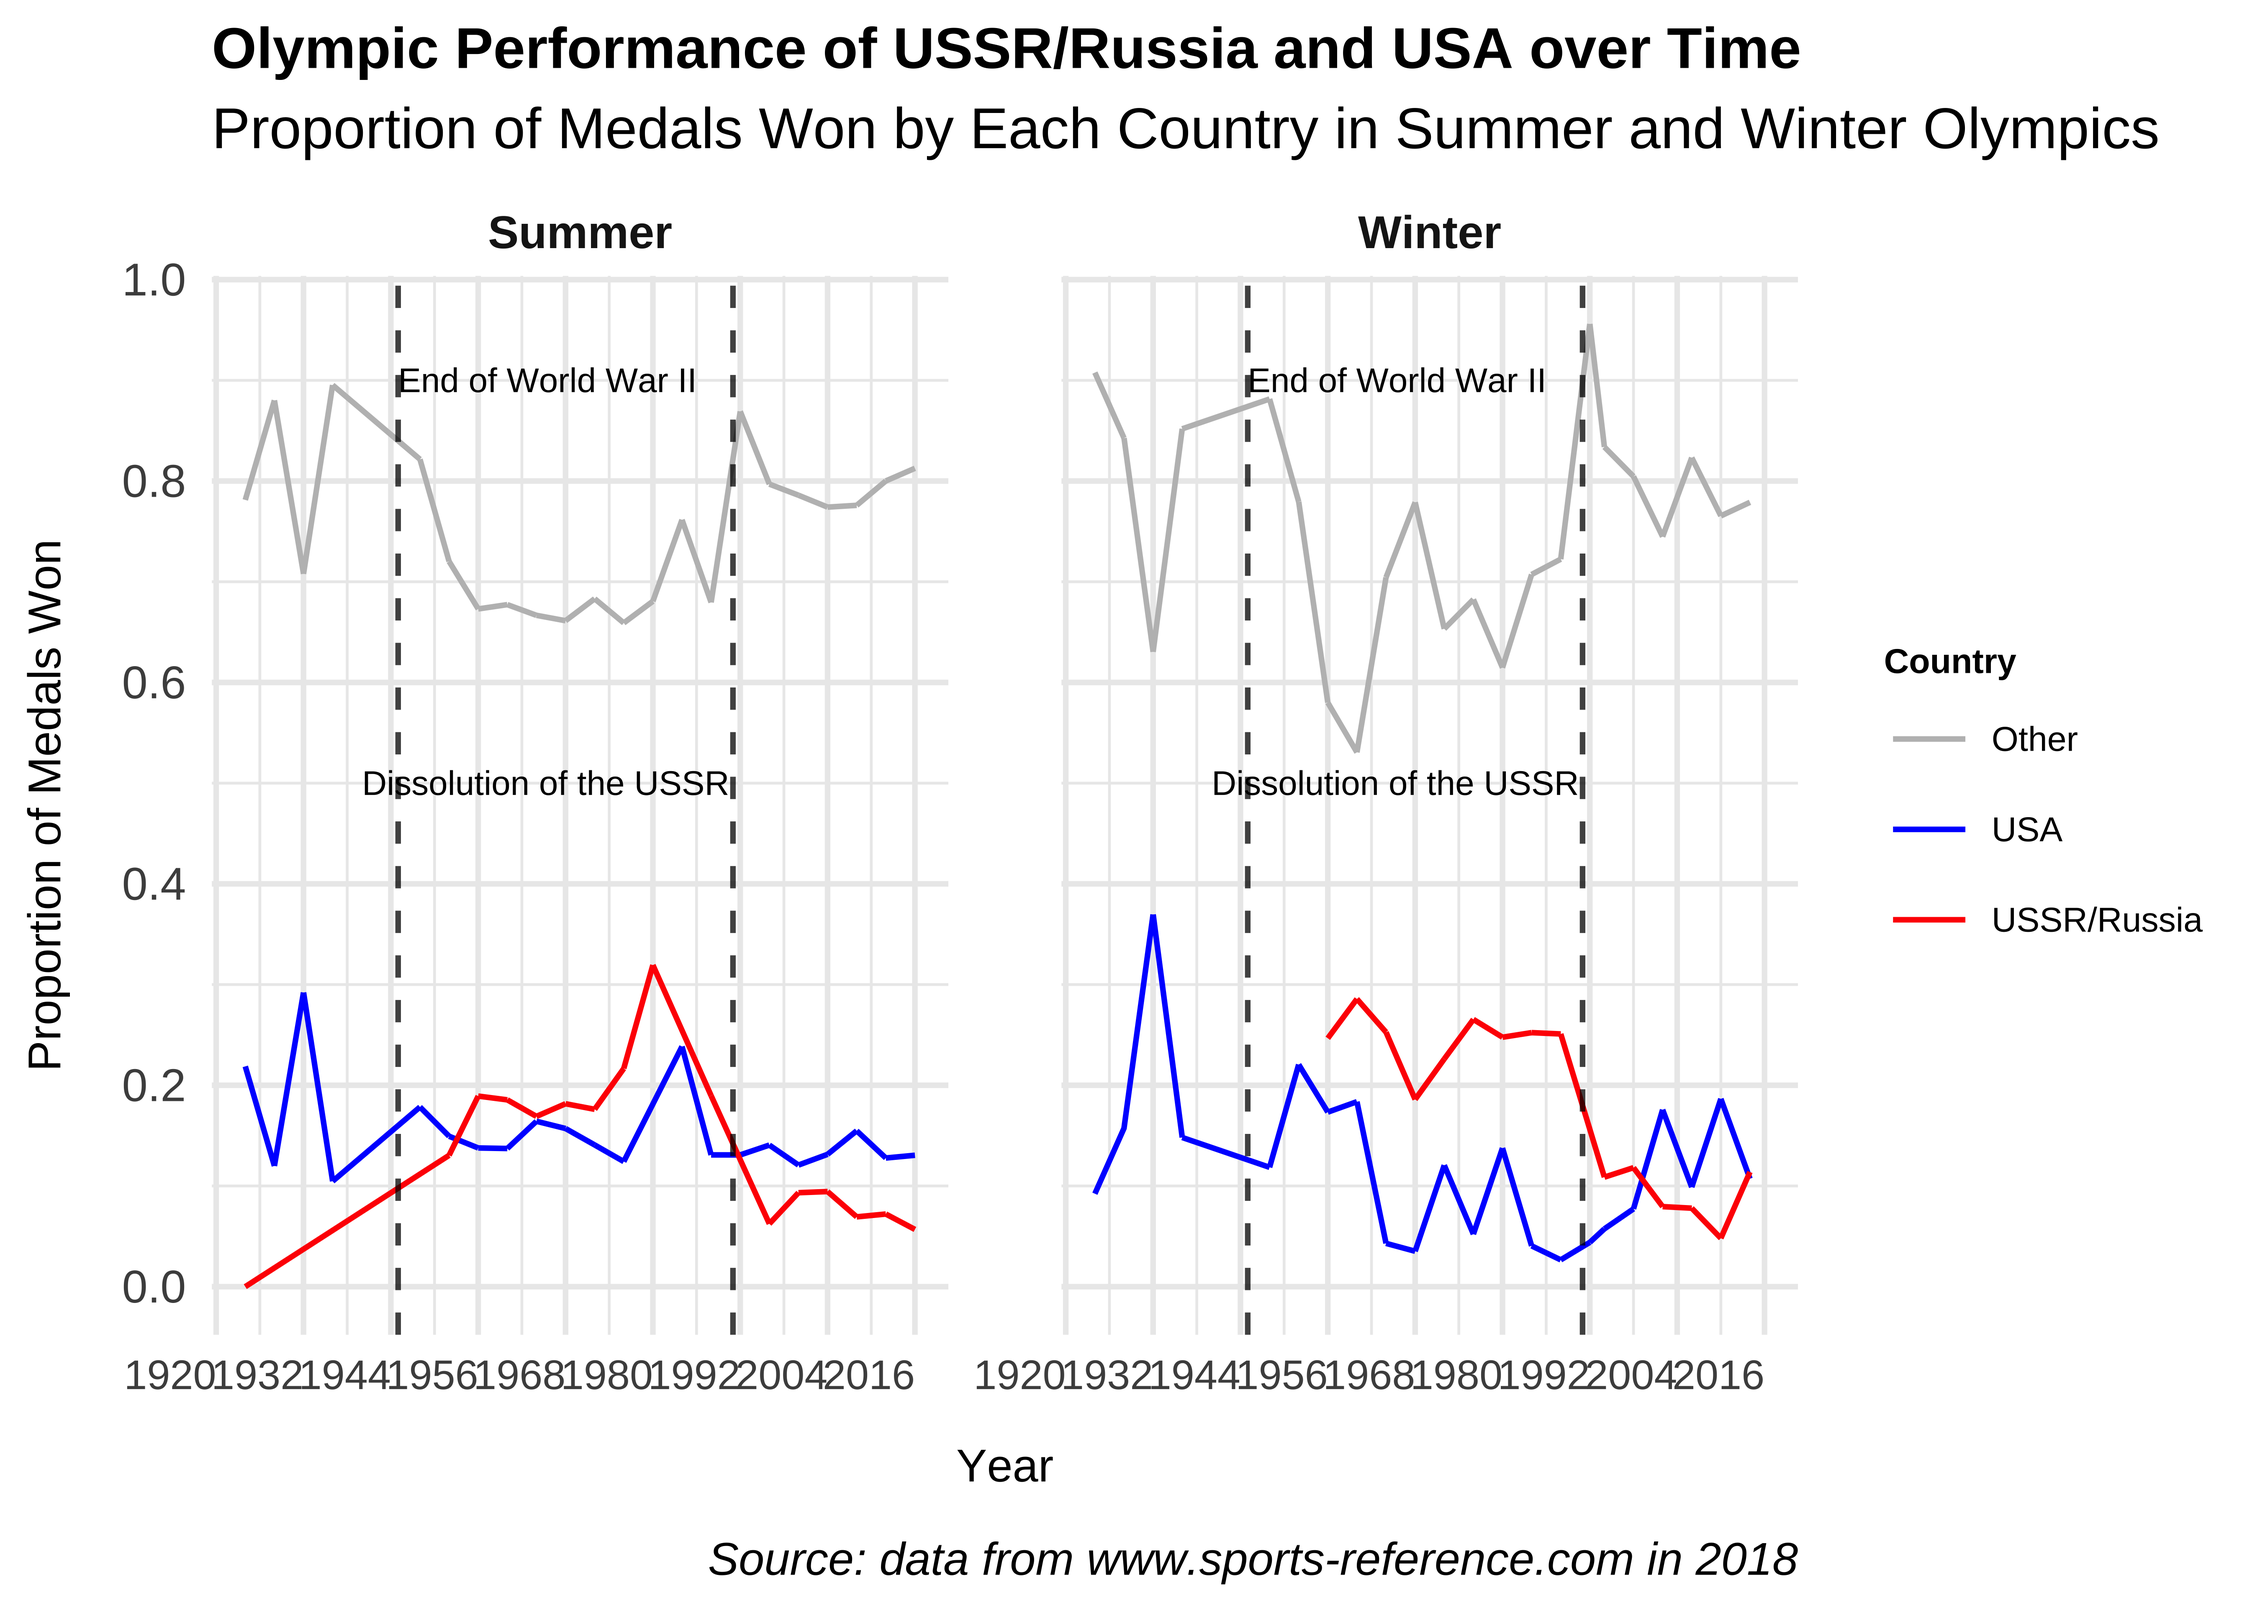
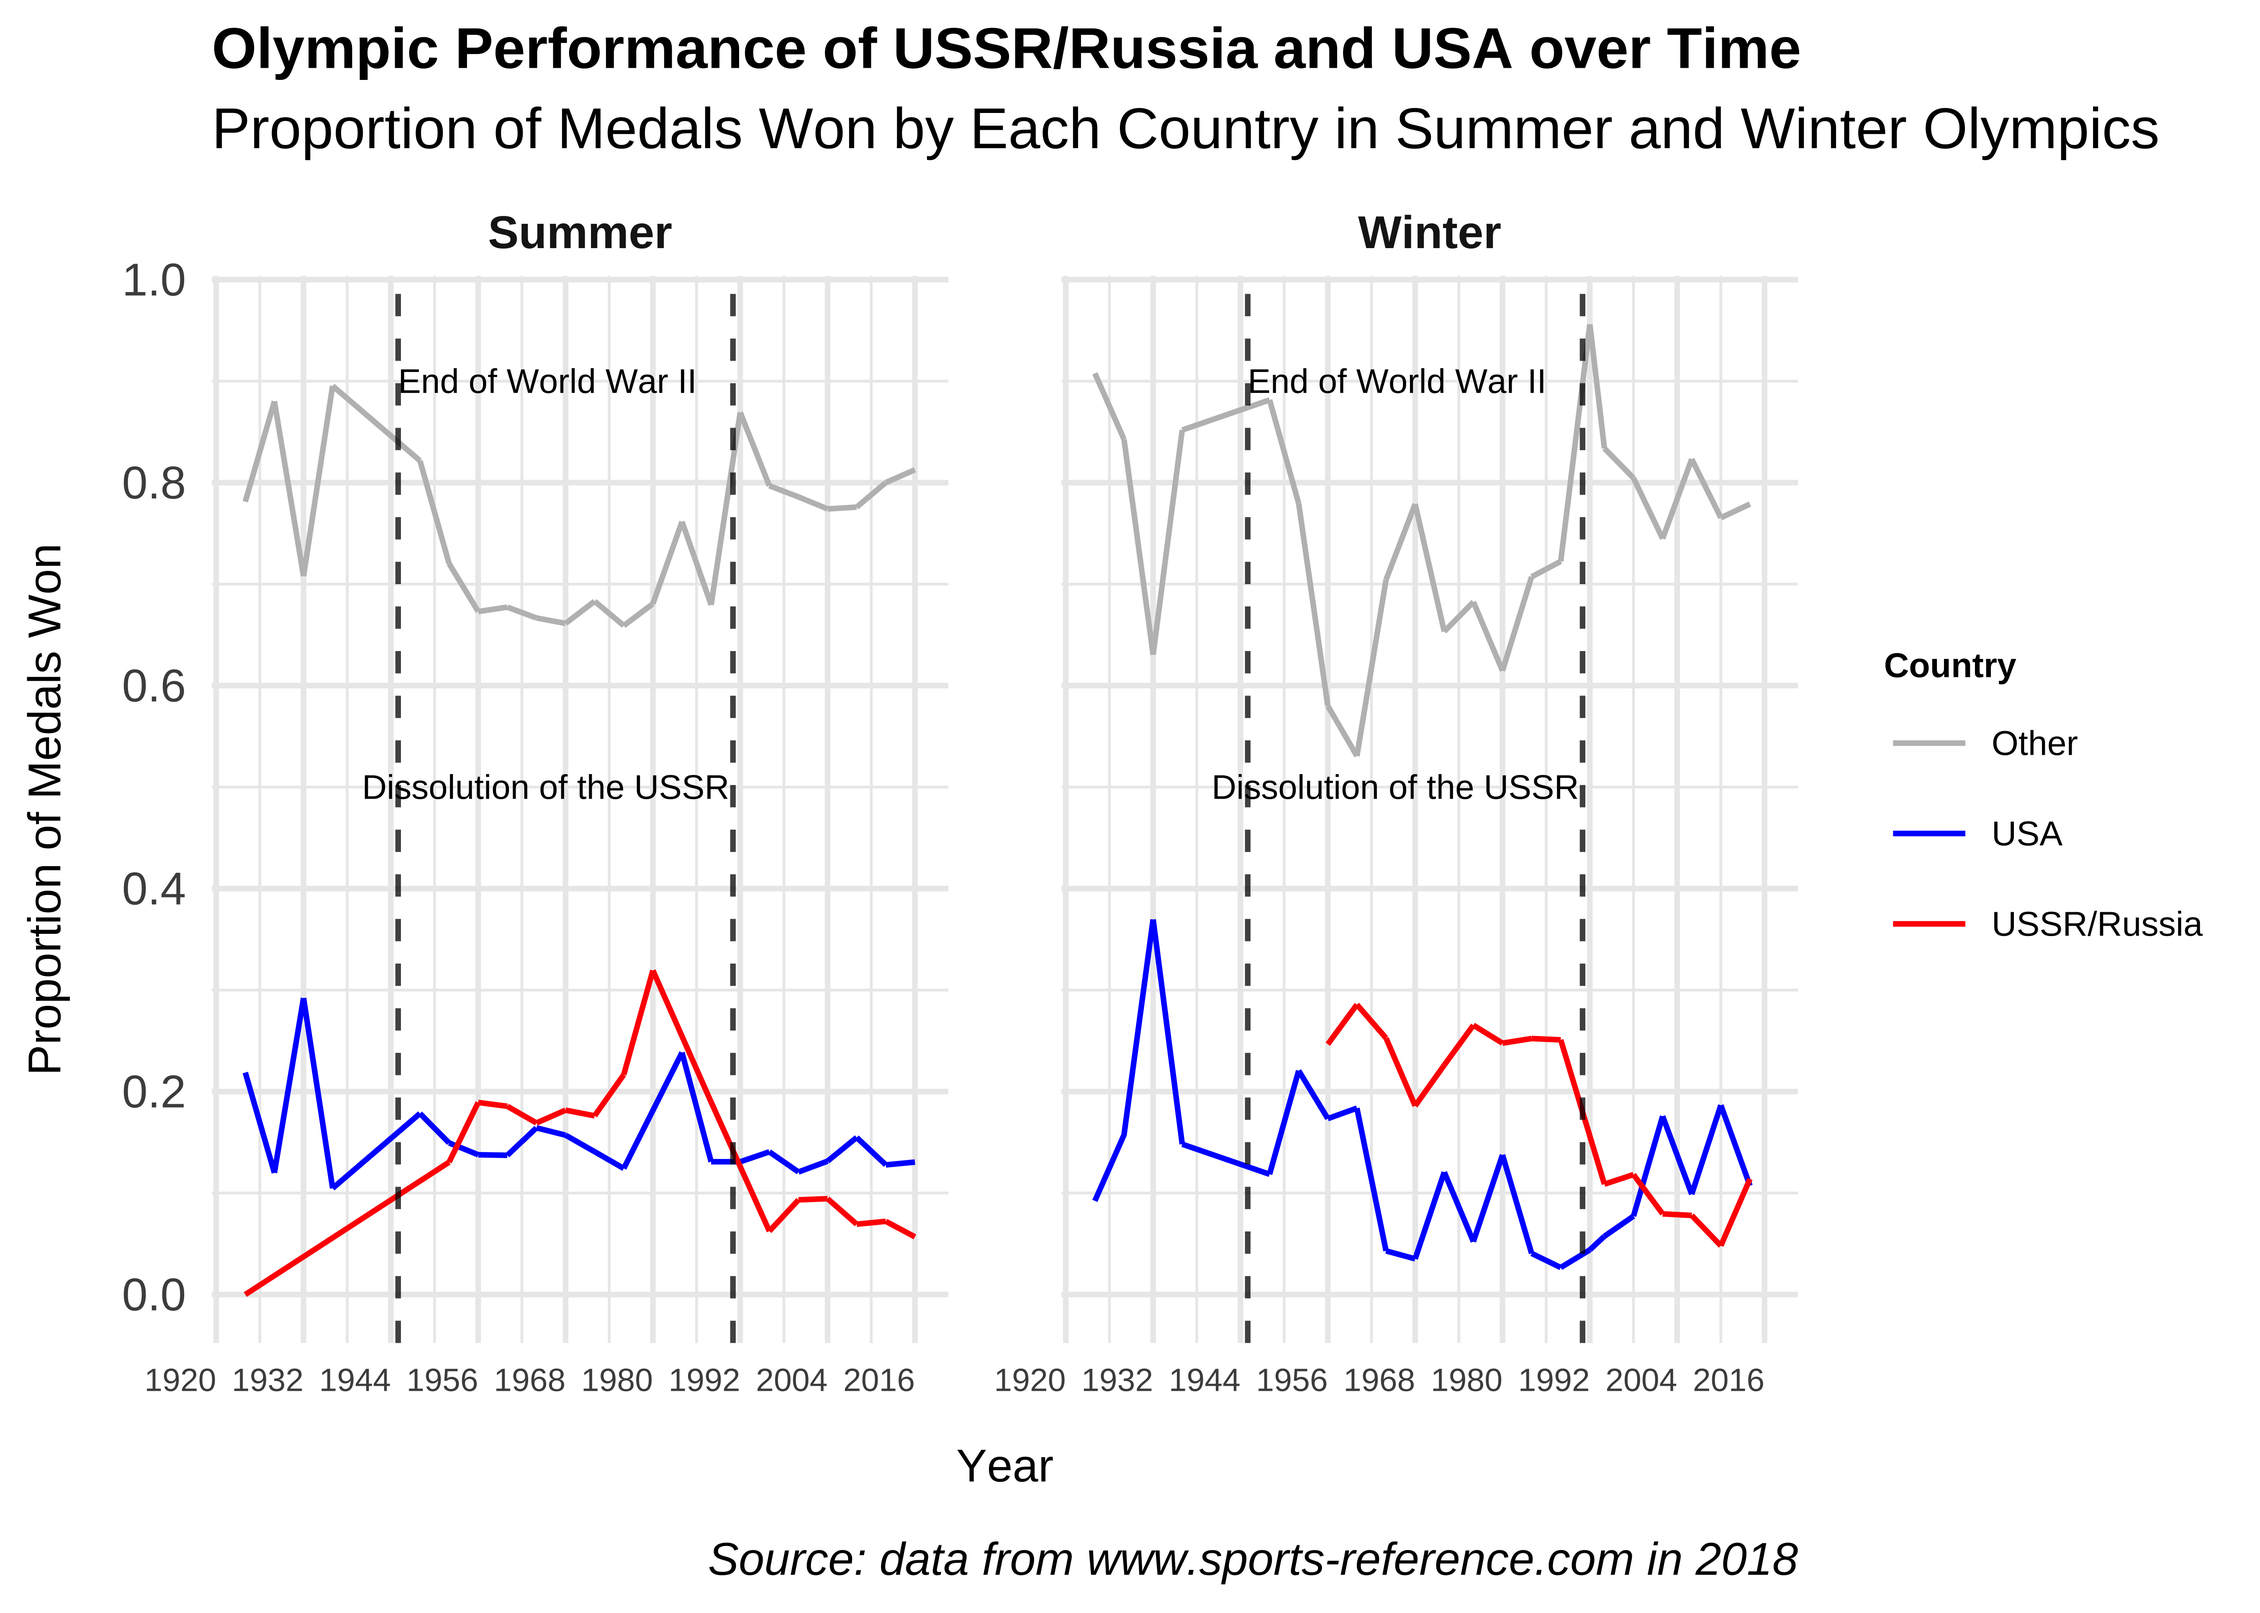
changed font size of year on x axis
from 0.9 to 0.7

diff --git a/presentation/presentation.html b/presentation/presentation.html
@@ -5,27 +5,18 @@
     <meta charset="utf-8" />
     <meta name="author" content="Elated Anura   Xinyu, Kamran, Konrat" />
     <meta name="date" content="2022-04-27" />
+    <script src="libs/header-attrs-2.13/header-attrs.js"></script>
     <link rel="stylesheet" href="xaringan-themer.css" type="text/css" />
   </head>
   <body>
     <textarea id="source">
 class: center, middle, inverse, title-slide
 
-.title[
 # Olympics and Society – Cold War Politics and Gender Equality in the Arena
-]
-.subtitle[
 ## US vs USSR, Females relative to Males
-]
-.author[
 ### Elated Anura <br> Xinyu, Kamran, Konrat
-]
-.institute[
 ### University of Chicago
-]
-.date[
 ### 2022-04-27
-]
 
 ---
 
@@ -77,6 +68,9 @@ Introduction
 
 
 &lt;img src="presentation_files/figure-html/plot-top15countries-1.png" width="70%" /&gt;
+
+
+
     </textarea>
 <style data-target="print-only">@media screen {.remark-slide-container{display:block;}.remark-slide-scaler{box-shadow:none;}}</style>
 <script src="https://remarkjs.com/downloads/remark-latest.min.js"></script>
@@ -125,19 +119,6 @@ if (window.HTMLWidgets) slideshow.on('afterShowSlide', function (slide) {
     deleted = true;
   });
 })();
-// add `data-at-shortcutkeys` attribute to <body> to resolve conflicts with JAWS
-// screen reader (see PR #262)
-(function(d) {
-  let res = {};
-  d.querySelectorAll('.remark-help-content table tr').forEach(tr => {
-    const t = tr.querySelector('td:nth-child(2)').innerText;
-    tr.querySelectorAll('td:first-child .key').forEach(key => {
-      const k = key.innerText;
-      if (/^[a-z]$/.test(k)) res[k] = t;  // must be a single letter (key)
-    });
-  });
-  d.body.setAttribute('data-at-shortcutkeys', JSON.stringify(res));
-})(document);
 (function() {
   "use strict"
   // Replace <script> tags in slides area to make them executable
